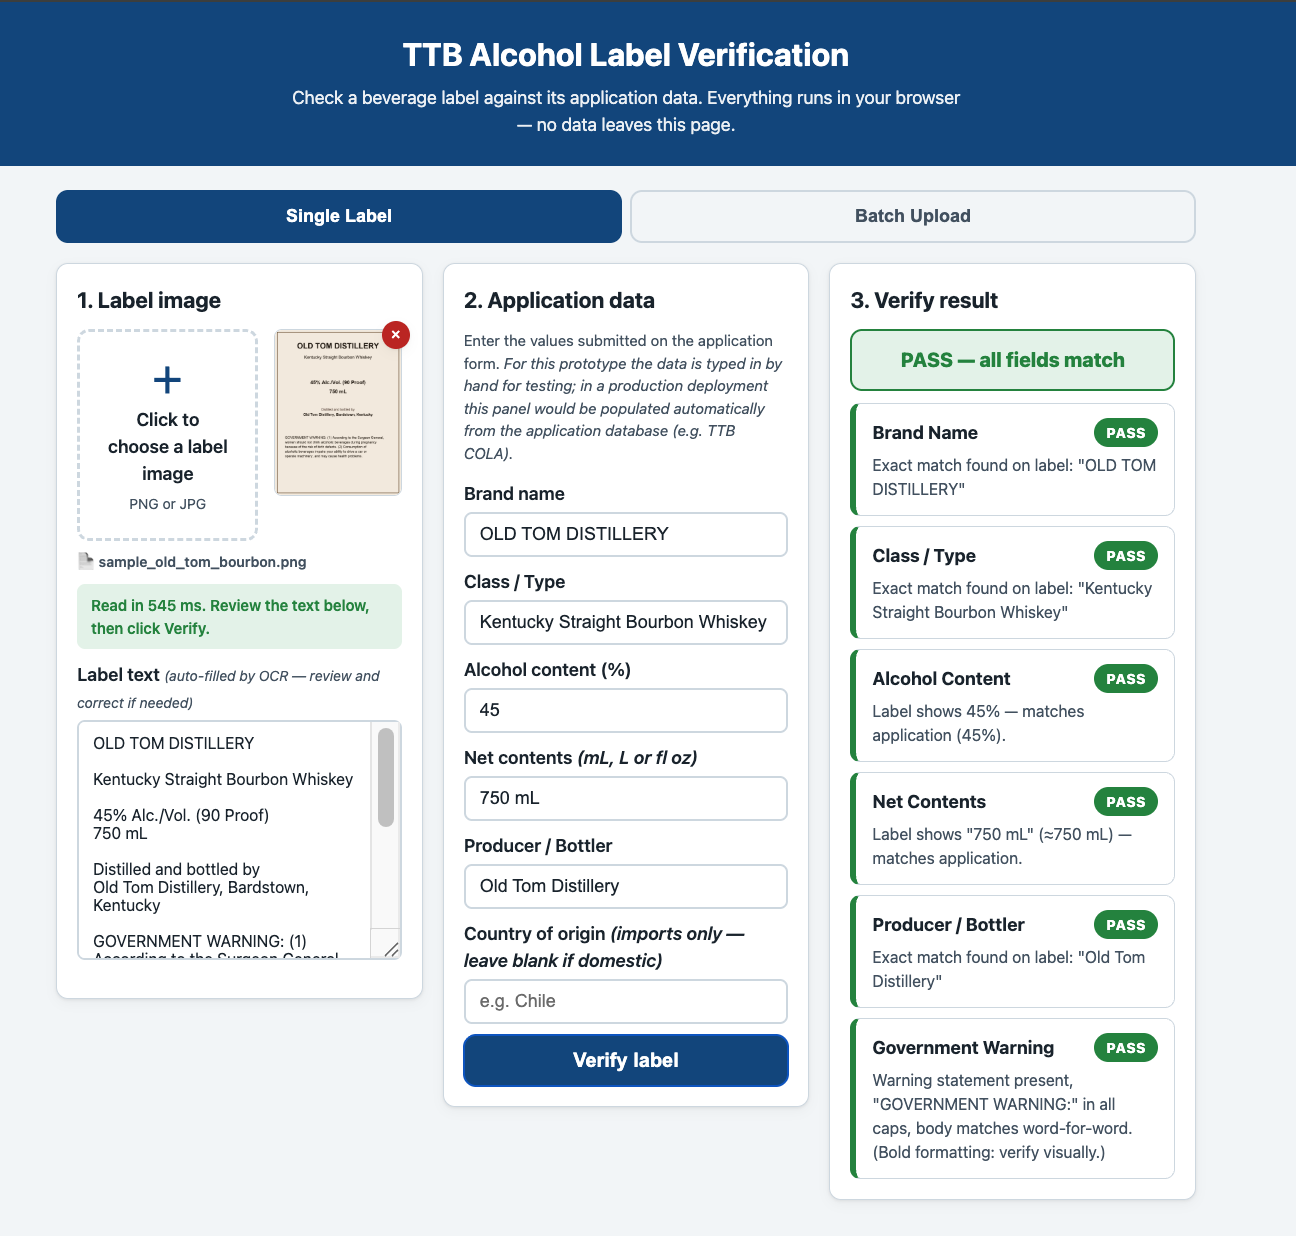
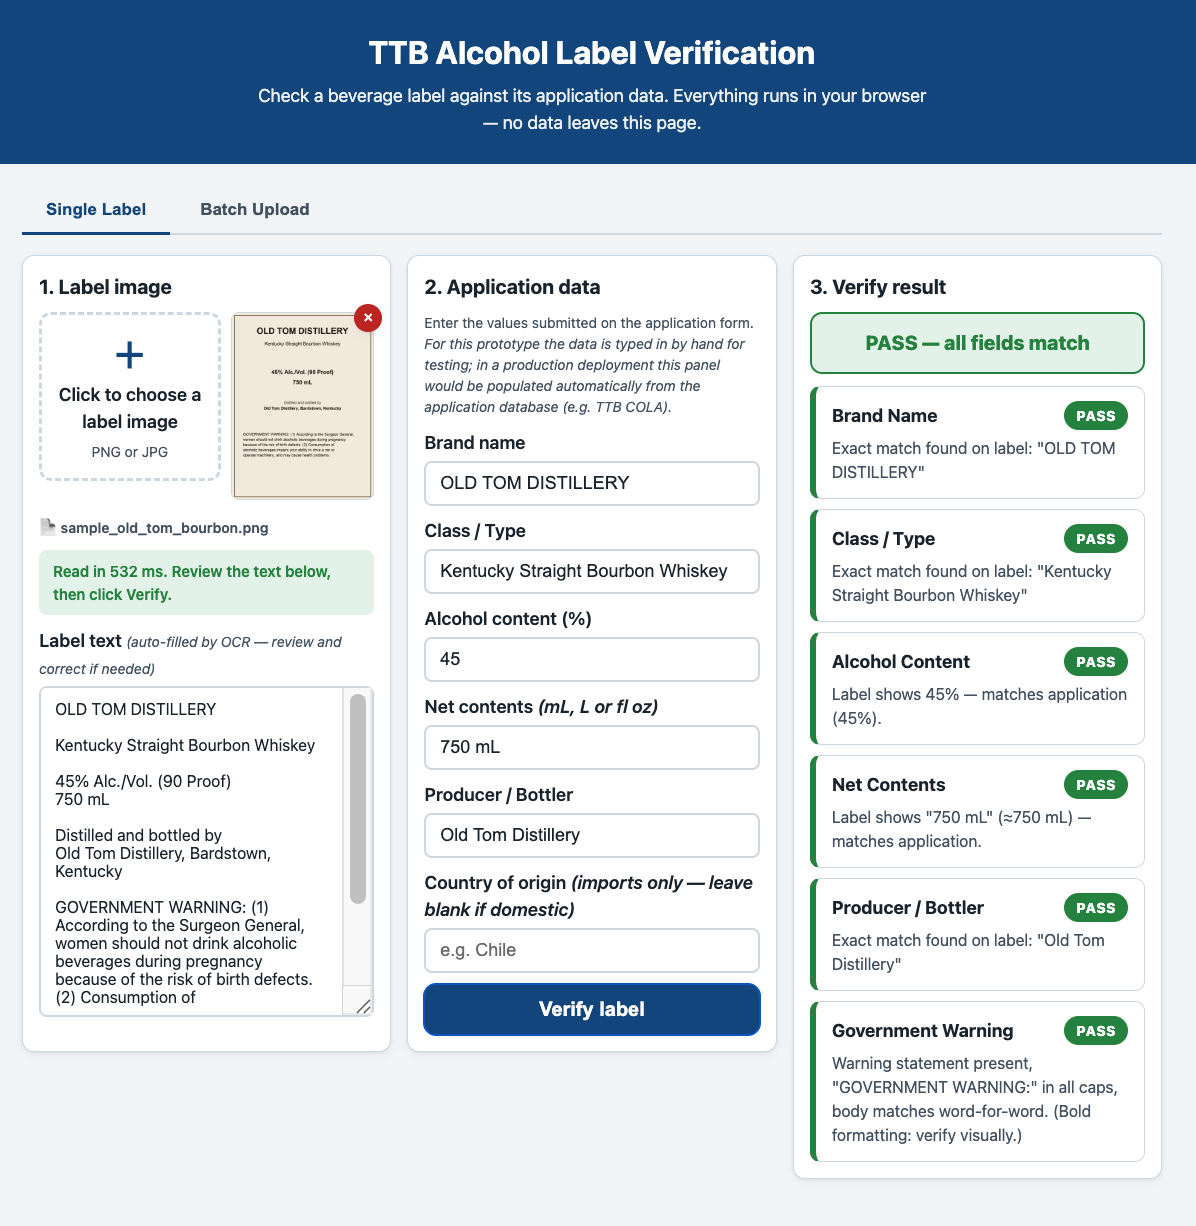
docs: refresh Try-it screenshots (5) and add batch results + expanded-detail views
Update the single-label PASS/REVIEW/FAIL screenshots to the current UI, adjust
their descriptions (REVIEW = brand 'STONES THROW' missing apostrophe; FAIL =
Stone's Throw ABV 13 + net 720), and add two batch screenshots (results table and
expanded per-field detail) to the Batch part of Try-it.

Changed region(s): [[0.0309, 0.155, 0.959, 0.9608], [0.2166, 0.031, 0.7734, 0.124]]

diff --git a/README.md b/README.md
@@ -88,22 +88,31 @@ the producer/bottler check.
 ![Single-label verification — all fields PASS](docs/screenshots/single-pass.png)
 
 **NEEDS REVIEW — a difference a human should confirm.** Upload
-`samples/sample_stones_throw_cabernet.png` and enter Brand as `Stones Throw`
+`samples/sample_stones_throw_cabernet.png` and enter Brand as `STONES THROW`
 against the label's `STONE'S THROW`. Rather than hard-fail an obvious
-case/punctuation difference, the tool marks the brand **NEEDS REVIEW** and leaves
-the call to the agent (Dave's rule).
+case/punctuation difference (the missing apostrophe), the tool marks the brand
+**NEEDS REVIEW** and leaves the call to the agent (Dave's rule).
 
 ![Single-label verification — NEEDS REVIEW](docs/screenshots/single-needs-review.png)
 
-**FAIL — a real mismatch.** With the Old Tom label, enter ABV as `35` against the
-label's 45% → the Alcohol Content field fails and the overall verdict is FAIL.
+**FAIL — a real mismatch.** With the Stone's Throw label, enter ABV as `13`
+(label reads 13.5%) and Net contents as `720 mL` (label reads 750 mL) → both
+fields fail and the overall verdict is FAIL.
 
 ![Single-label verification — FAIL](docs/screenshots/single-fail.png)
 
 **Batch.** In the Batch tab, choose `samples/batch.csv` and select all the images
 in the `samples/` folder — the first CSV row is the Old Tom benchmark. The two
 `sample_*` files are synthetic; the `real_*` files are real-world back-label
-photos, included to show OCR on harder images.
+photos, included to show OCR on harder images. Each row shows the application
+brand, the matched image file, the verdict, and a per-label time; the summary
+counts PASS / NEEDS REVIEW / FAIL across the run.
+
+![Batch verification — results table](docs/screenshots/batch-results.png)
+
+Click **details** on any row to expand the per-field breakdown for that label.
+
+![Batch verification — expanded per-field detail](docs/screenshots/batch-details-expanded.png)
 
 ---
 